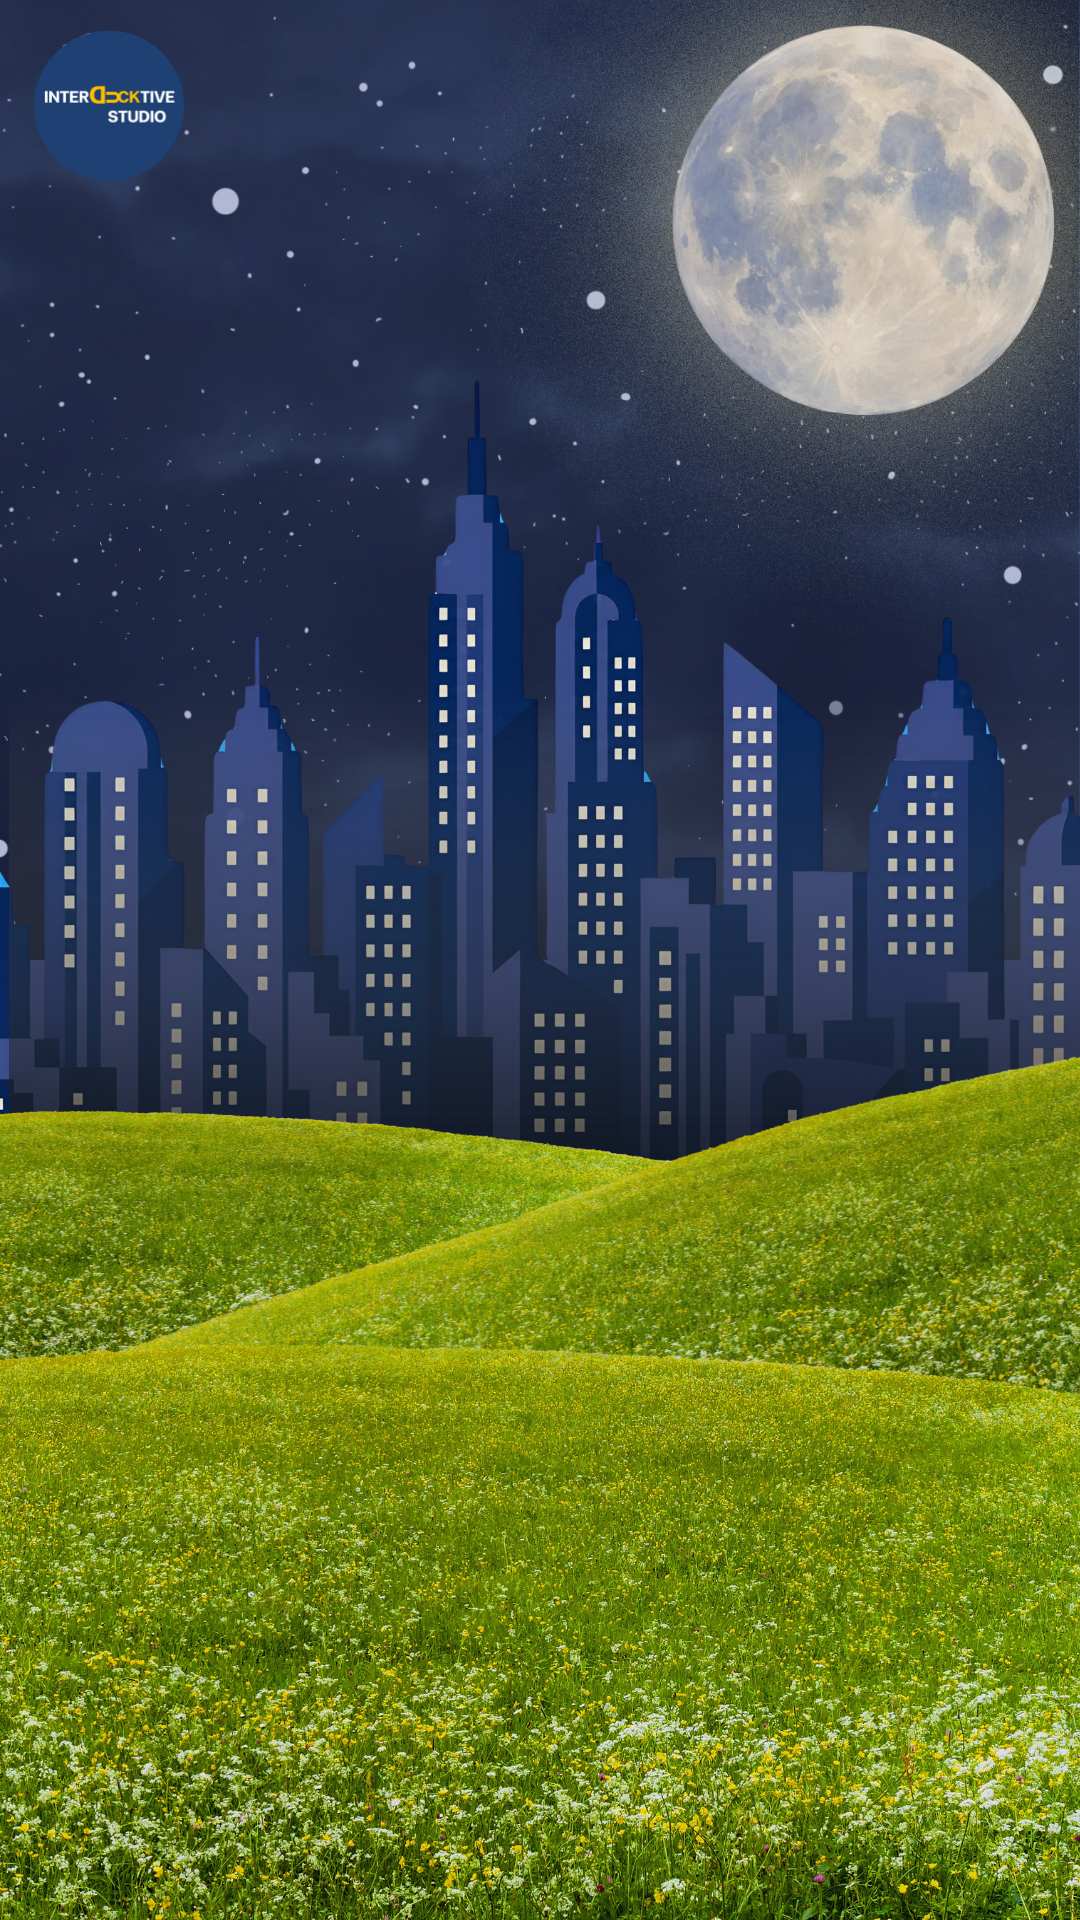
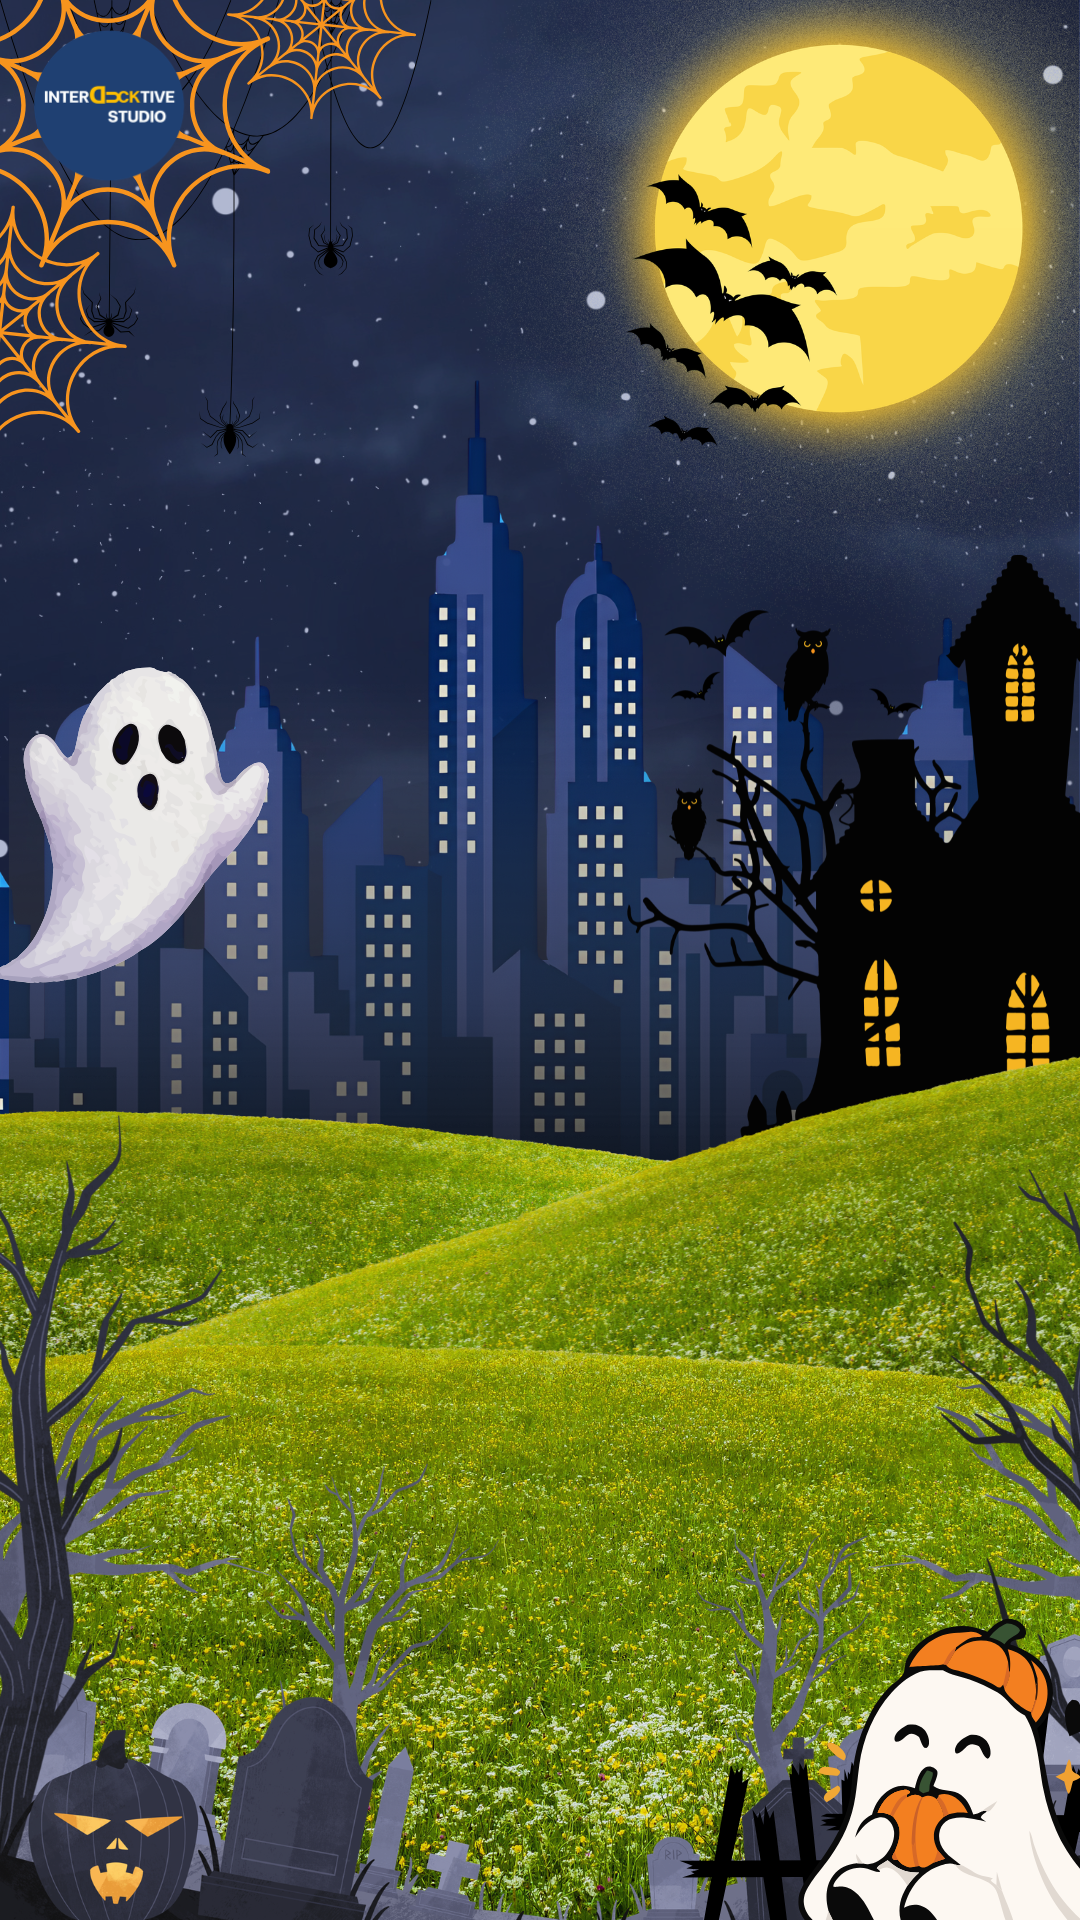
feat: use the Halloween city as the map background

diff --git a/app/pages/map.vue b/app/pages/map.vue
@@ -5,8 +5,8 @@ import { SOUNDS } from '~/constants'
 
 const stageWidth = 1080
 const stageHeight = 1920
-const walkMarginX = 140
-const walkMaxY = 1740
+const walkMarginX = 200
+const walkMaxY = 1660
 const walkMinY = 1250
 const walkHeadroom = 280
 const walkMinDepth = 120
